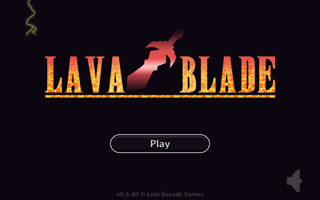
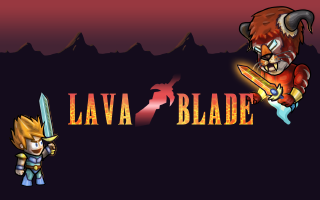
Create game promo images

diff --git a/index.html b/index.html
@@ -4,6 +4,6 @@ title: "HTML5 Game Studio"
 ---
 
 <!-- TODO: Big game carousel -->
-<div style="height:400px;background: url(/media/images/games/lunch-bug/promo-2000x400.jpg) center center"></div>
+<div style="height:400px;background: url(/media/images/games/lava-blade/promo-2000x400.jpg) center center"></div>
 
 {% include feature-games.html %}
